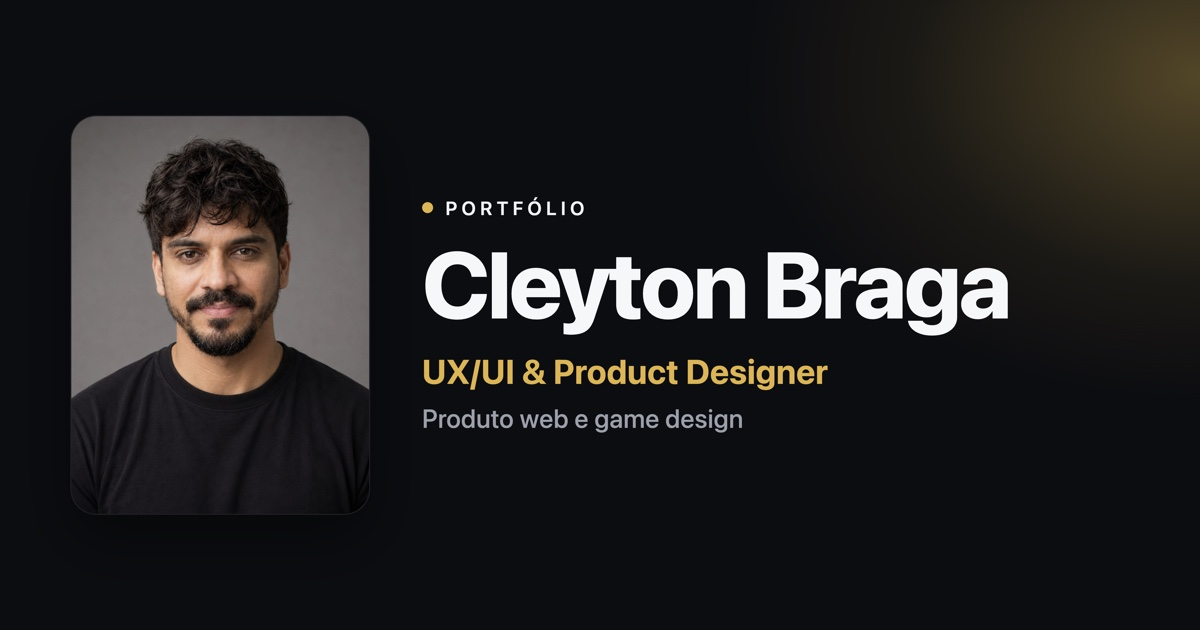
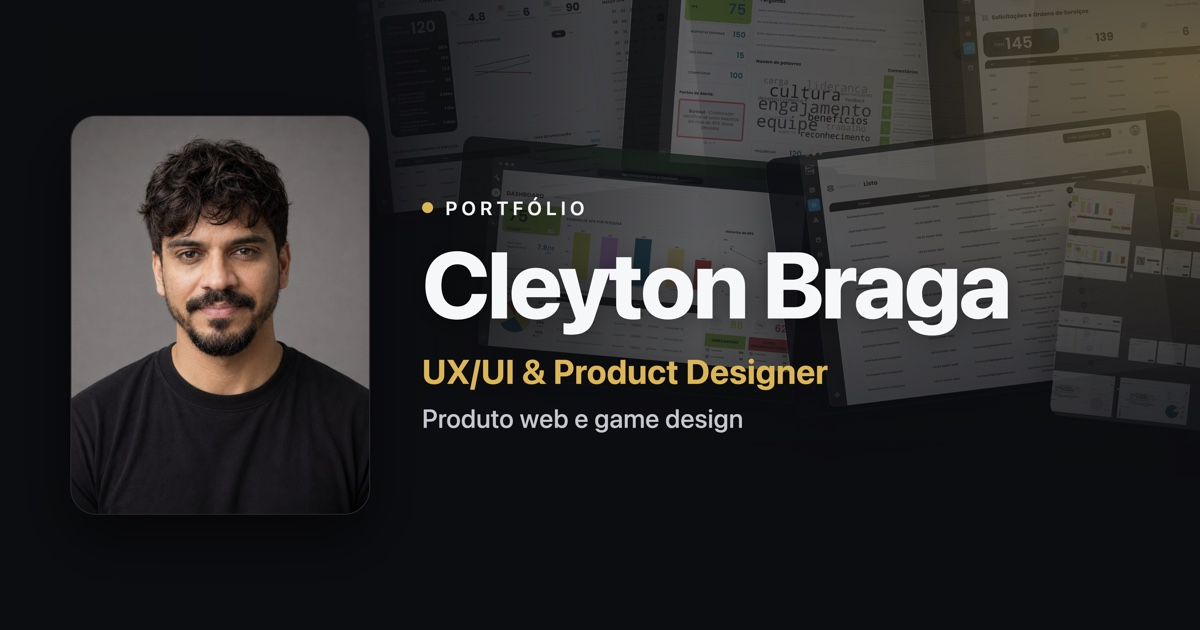
Card com collage de fundo + padroniza titulo e descricao (sem gamificacao)

diff --git a/sobre/index.html b/sobre/index.html
@@ -3,22 +3,22 @@
 <head>
 <meta charset="utf-8">
 <meta name="viewport" content="width=device-width, initial-scale=1">
-<title>Quem sou eu · Cleyton Braga | UX/UI Designer</title>
-<meta name="description" content="Cleyton Braga, Product Designer: produto web, gamificação e game design. Trajetória, como trabalho e ferramentas.">
+<title>Quem sou eu · Cleyton Braga | UX/UI &amp; Product Designer</title>
+<meta name="description" content="Cleyton Braga, Product Designer: produto web e game design. Trajetória, como trabalho e ferramentas.">
 <!-- Open Graph / preview de compartilhamento -->
 <meta property="og:type" content="website">
 <meta property="og:site_name" content="Cleyton Braga">
 <meta property="og:locale" content="pt_BR">
-<meta property="og:title" content="Quem sou eu · Cleyton Braga | UX/UI Designer">
-<meta property="og:description" content="Cleyton Braga, Product Designer: produto web, gamificação e game design. Trajetória, como trabalho e ferramentas.">
+<meta property="og:title" content="Quem sou eu · Cleyton Braga | UX/UI &amp; Product Designer">
+<meta property="og:description" content="Cleyton Braga, Product Designer: produto web e game design. Trajetória, como trabalho e ferramentas.">
 <meta property="og:url" content="https://cleytonbraga.com/sobre/">
 <meta property="og:image" content="https://cleytonbraga.com/assets/og-cover.jpg">
 <meta property="og:image:width" content="1200">
 <meta property="og:image:height" content="630">
 <meta property="og:image:alt" content="Cleyton Braga — UX/UI & Product Designer">
 <meta name="twitter:card" content="summary_large_image">
-<meta name="twitter:title" content="Quem sou eu · Cleyton Braga | UX/UI Designer">
-<meta name="twitter:description" content="Cleyton Braga, Product Designer: produto web, gamificação e game design. Trajetória, como trabalho e ferramentas.">
+<meta name="twitter:title" content="Quem sou eu · Cleyton Braga | UX/UI &amp; Product Designer">
+<meta name="twitter:description" content="Cleyton Braga, Product Designer: produto web e game design. Trajetória, como trabalho e ferramentas.">
 <meta name="twitter:image" content="https://cleytonbraga.com/assets/og-cover.jpg">
 
 <link rel="stylesheet" href="../styles.css?v=68">

diff --git a/index.html b/index.html
@@ -3,21 +3,21 @@
 <head>
 <meta charset="utf-8">
 <meta name="viewport" content="width=device-width, initial-scale=1">
-<title>Cleyton Braga | UX/UI Designer</title>
+<title>Cleyton Braga | UX/UI &amp; Product Designer</title>
 <!-- Open Graph / preview de compartilhamento -->
 <meta property="og:type" content="website">
 <meta property="og:site_name" content="Cleyton Braga">
 <meta property="og:locale" content="pt_BR">
-<meta property="og:title" content="Cleyton Braga | UX/UI Designer">
-<meta property="og:description" content="Portfólio de Cleyton Braga — produto web, gamificação e game design.">
+<meta property="og:title" content="Cleyton Braga | UX/UI &amp; Product Designer">
+<meta property="og:description" content="Portfólio de Cleyton Braga — produto web e game design.">
 <meta property="og:url" content="https://cleytonbraga.com/">
 <meta property="og:image" content="https://cleytonbraga.com/assets/og-cover.jpg">
 <meta property="og:image:width" content="1200">
 <meta property="og:image:height" content="630">
 <meta property="og:image:alt" content="Cleyton Braga — UX/UI & Product Designer">
 <meta name="twitter:card" content="summary_large_image">
-<meta name="twitter:title" content="Cleyton Braga | UX/UI Designer">
-<meta name="twitter:description" content="Portfólio de Cleyton Braga — produto web, gamificação e game design.">
+<meta name="twitter:title" content="Cleyton Braga | UX/UI &amp; Product Designer">
+<meta name="twitter:description" content="Portfólio de Cleyton Braga — produto web e game design.">
 <meta name="twitter:image" content="https://cleytonbraga.com/assets/og-cover.jpg">
 
 <link rel="stylesheet" href="styles.css?v=68">

diff --git a/cases/projetos/index.html b/cases/projetos/index.html
@@ -3,13 +3,13 @@
 <head>
 <meta charset="utf-8">
 <meta name="viewport" content="width=device-width, initial-scale=1">
-<title>Todos os projetos · Cleyton Braga | UX/UI Designer</title>
+<title>Todos os projetos · Cleyton Braga | UX/UI &amp; Product Designer</title>
 <meta name="description" content="Uma seleção do que desenhei: produto web, ferramentas internas, apps e jogos.">
 <!-- Open Graph / preview de compartilhamento -->
 <meta property="og:type" content="website">
 <meta property="og:site_name" content="Cleyton Braga">
 <meta property="og:locale" content="pt_BR">
-<meta property="og:title" content="Todos os projetos · Cleyton Braga | UX/UI Designer">
+<meta property="og:title" content="Todos os projetos · Cleyton Braga | UX/UI &amp; Product Designer">
 <meta property="og:description" content="Uma seleção do que desenhei: produto web, ferramentas internas, apps e jogos.">
 <meta property="og:url" content="https://cleytonbraga.com/cases/projetos/">
 <meta property="og:image" content="https://cleytonbraga.com/assets/og-cover.jpg">
@@ -17,7 +17,7 @@
 <meta property="og:image:height" content="630">
 <meta property="og:image:alt" content="Cleyton Braga — UX/UI & Product Designer">
 <meta name="twitter:card" content="summary_large_image">
-<meta name="twitter:title" content="Todos os projetos · Cleyton Braga | UX/UI Designer">
+<meta name="twitter:title" content="Todos os projetos · Cleyton Braga | UX/UI &amp; Product Designer">
 <meta name="twitter:description" content="Uma seleção do que desenhei: produto web, ferramentas internas, apps e jogos.">
 <meta name="twitter:image" content="https://cleytonbraga.com/assets/og-cover.jpg">
 

diff --git a/cases/sao-braz/index.html b/cases/sao-braz/index.html
@@ -9,7 +9,7 @@
 <meta property="og:site_name" content="Cleyton Braga">
 <meta property="og:locale" content="pt_BR">
 <meta property="og:title" content="São Braz no São João · Ativações · Cleyton Braga">
-<meta property="og:description" content="Portfólio de Cleyton Braga — produto web, gamificação e game design.">
+<meta property="og:description" content="Portfólio de Cleyton Braga — produto web e game design.">
 <meta property="og:url" content="https://cleytonbraga.com/cases/sao-braz/">
 <meta property="og:image" content="https://cleytonbraga.com/assets/og-cover.jpg">
 <meta property="og:image:width" content="1200">
@@ -17,7 +17,7 @@
 <meta property="og:image:alt" content="Cleyton Braga — UX/UI & Product Designer">
 <meta name="twitter:card" content="summary_large_image">
 <meta name="twitter:title" content="São Braz no São João · Ativações · Cleyton Braga">
-<meta name="twitter:description" content="Portfólio de Cleyton Braga — produto web, gamificação e game design.">
+<meta name="twitter:description" content="Portfólio de Cleyton Braga — produto web e game design.">
 <meta name="twitter:image" content="https://cleytonbraga.com/assets/og-cover.jpg">
 
 <link rel="stylesheet" href="../../styles.css?v=68">

diff --git a/cases/ecossistema/index.html b/cases/ecossistema/index.html
@@ -9,7 +9,7 @@
 <meta property="og:site_name" content="Cleyton Braga">
 <meta property="og:locale" content="pt_BR">
 <meta property="og:title" content="Ecossistema da Ativação | Cleyton Braga">
-<meta property="og:description" content="Portfólio de Cleyton Braga — produto web, gamificação e game design.">
+<meta property="og:description" content="Portfólio de Cleyton Braga — produto web e game design.">
 <meta property="og:url" content="https://cleytonbraga.com/cases/ecossistema/">
 <meta property="og:image" content="https://cleytonbraga.com/assets/og-cover.jpg">
 <meta property="og:image:width" content="1200">
@@ -17,7 +17,7 @@
 <meta property="og:image:alt" content="Cleyton Braga — UX/UI & Product Designer">
 <meta name="twitter:card" content="summary_large_image">
 <meta name="twitter:title" content="Ecossistema da Ativação | Cleyton Braga">
-<meta name="twitter:description" content="Portfólio de Cleyton Braga — produto web, gamificação e game design.">
+<meta name="twitter:description" content="Portfólio de Cleyton Braga — produto web e game design.">
 <meta name="twitter:image" content="https://cleytonbraga.com/assets/og-cover.jpg">
 
 <link rel="stylesheet" href="../../styles.css?v=68">

diff --git a/cases/bpx/index.html b/cases/bpx/index.html
@@ -9,7 +9,7 @@
 <meta property="og:site_name" content="Cleyton Braga">
 <meta property="og:locale" content="pt_BR">
 <meta property="og:title" content="BPX · Plataforma de apostas | Cleyton Braga">
-<meta property="og:description" content="Portfólio de Cleyton Braga — produto web, gamificação e game design.">
+<meta property="og:description" content="Portfólio de Cleyton Braga — produto web e game design.">
 <meta property="og:url" content="https://cleytonbraga.com/cases/bpx/">
 <meta property="og:image" content="https://cleytonbraga.com/assets/og-cover.jpg">
 <meta property="og:image:width" content="1200">
@@ -17,7 +17,7 @@
 <meta property="og:image:alt" content="Cleyton Braga — UX/UI & Product Designer">
 <meta name="twitter:card" content="summary_large_image">
 <meta name="twitter:title" content="BPX · Plataforma de apostas | Cleyton Braga">
-<meta name="twitter:description" content="Portfólio de Cleyton Braga — produto web, gamificação e game design.">
+<meta name="twitter:description" content="Portfólio de Cleyton Braga — produto web e game design.">
 <meta name="twitter:image" content="https://cleytonbraga.com/assets/og-cover.jpg">
 
 <link rel="stylesheet" href="../../styles.css?v=68">

diff --git a/cases/dilis/index.html b/cases/dilis/index.html
@@ -9,7 +9,7 @@
 <meta property="og:site_name" content="Cleyton Braga">
 <meta property="og:locale" content="pt_BR">
 <meta property="og:title" content="Dilis · Direção visual · Cleyton Braga">
-<meta property="og:description" content="Portfólio de Cleyton Braga — produto web, gamificação e game design.">
+<meta property="og:description" content="Portfólio de Cleyton Braga — produto web e game design.">
 <meta property="og:url" content="https://cleytonbraga.com/cases/dilis/">
 <meta property="og:image" content="https://cleytonbraga.com/assets/og-cover.jpg">
 <meta property="og:image:width" content="1200">
@@ -17,7 +17,7 @@
 <meta property="og:image:alt" content="Cleyton Braga — UX/UI & Product Designer">
 <meta name="twitter:card" content="summary_large_image">
 <meta name="twitter:title" content="Dilis · Direção visual · Cleyton Braga">
-<meta name="twitter:description" content="Portfólio de Cleyton Braga — produto web, gamificação e game design.">
+<meta name="twitter:description" content="Portfólio de Cleyton Braga — produto web e game design.">
 <meta name="twitter:image" content="https://cleytonbraga.com/assets/og-cover.jpg">
 
 <link rel="stylesheet" href="../../styles.css?v=68">

diff --git a/cases/outros-projetos/index.html b/cases/outros-projetos/index.html
@@ -9,7 +9,7 @@
 <meta property="og:site_name" content="Cleyton Braga">
 <meta property="og:locale" content="pt_BR">
 <meta property="og:title" content="Outros projetos | Cleyton Braga">
-<meta property="og:description" content="Portfólio de Cleyton Braga — produto web, gamificação e game design.">
+<meta property="og:description" content="Portfólio de Cleyton Braga — produto web e game design.">
 <meta property="og:url" content="https://cleytonbraga.com/cases/outros-projetos/">
 <meta property="og:image" content="https://cleytonbraga.com/assets/og-cover.jpg">
 <meta property="og:image:width" content="1200">
@@ -17,7 +17,7 @@
 <meta property="og:image:alt" content="Cleyton Braga — UX/UI & Product Designer">
 <meta name="twitter:card" content="summary_large_image">
 <meta name="twitter:title" content="Outros projetos | Cleyton Braga">
-<meta name="twitter:description" content="Portfólio de Cleyton Braga — produto web, gamificação e game design.">
+<meta name="twitter:description" content="Portfólio de Cleyton Braga — produto web e game design.">
 <meta name="twitter:image" content="https://cleytonbraga.com/assets/og-cover.jpg">
 
 <link rel="stylesheet" href="../../styles.css?v=68">

diff --git a/cases/cases-de-sucesso/index.html b/cases/cases-de-sucesso/index.html
@@ -10,7 +10,7 @@
 <meta property="og:site_name" content="Cleyton Braga">
 <meta property="og:locale" content="pt_BR">
 <meta property="og:title" content="Cases de sucesso | Cleyton Braga">
-<meta property="og:description" content="Portfólio de Cleyton Braga — produto web, gamificação e game design.">
+<meta property="og:description" content="Portfólio de Cleyton Braga — produto web e game design.">
 <meta property="og:url" content="https://cleytonbraga.com/cases/cases-de-sucesso/">
 <meta property="og:image" content="https://cleytonbraga.com/assets/og-cover.jpg">
 <meta property="og:image:width" content="1200">
@@ -18,7 +18,7 @@
 <meta property="og:image:alt" content="Cleyton Braga — UX/UI & Product Designer">
 <meta name="twitter:card" content="summary_large_image">
 <meta name="twitter:title" content="Cases de sucesso | Cleyton Braga">
-<meta name="twitter:description" content="Portfólio de Cleyton Braga — produto web, gamificação e game design.">
+<meta name="twitter:description" content="Portfólio de Cleyton Braga — produto web e game design.">
 <meta name="twitter:image" content="https://cleytonbraga.com/assets/og-cover.jpg">
 
 <link rel="canonical" href="../../index.html">

diff --git a/cases/_template/index.html b/cases/_template/index.html
@@ -10,7 +10,7 @@
 <meta property="og:site_name" content="Cleyton Braga">
 <meta property="og:locale" content="pt_BR">
 <meta property="og:title" content="NOME DO CASE | Cleyton Braga">
-<meta property="og:description" content="Portfólio de Cleyton Braga — produto web, gamificação e game design.">
+<meta property="og:description" content="Portfólio de Cleyton Braga — produto web e game design.">
 <meta property="og:url" content="https://cleytonbraga.com/cases/_template/">
 <meta property="og:image" content="https://cleytonbraga.com/assets/og-cover.jpg">
 <meta property="og:image:width" content="1200">
@@ -18,7 +18,7 @@
 <meta property="og:image:alt" content="Cleyton Braga — UX/UI & Product Designer">
 <meta name="twitter:card" content="summary_large_image">
 <meta name="twitter:title" content="NOME DO CASE | Cleyton Braga">
-<meta name="twitter:description" content="Portfólio de Cleyton Braga — produto web, gamificação e game design.">
+<meta name="twitter:description" content="Portfólio de Cleyton Braga — produto web e game design.">
 <meta name="twitter:image" content="https://cleytonbraga.com/assets/og-cover.jpg">
 
 <link rel="stylesheet" href="../../styles.css?v=68">

diff --git a/cases/sao-braz/demo/index.html b/cases/sao-braz/demo/index.html
@@ -9,7 +9,7 @@
 <meta property="og:site_name" content="Cleyton Braga">
 <meta property="og:locale" content="pt_BR">
 <meta property="og:title" content="São Braz — Desafio da Memória">
-<meta property="og:description" content="Portfólio de Cleyton Braga — produto web, gamificação e game design.">
+<meta property="og:description" content="Portfólio de Cleyton Braga — produto web e game design.">
 <meta property="og:url" content="https://cleytonbraga.com/cases/sao-braz/demo/">
 <meta property="og:image" content="https://cleytonbraga.com/assets/og-cover.jpg">
 <meta property="og:image:width" content="1200">
@@ -17,7 +17,7 @@
 <meta property="og:image:alt" content="Cleyton Braga — UX/UI & Product Designer">
 <meta name="twitter:card" content="summary_large_image">
 <meta name="twitter:title" content="São Braz — Desafio da Memória">
-<meta name="twitter:description" content="Portfólio de Cleyton Braga — produto web, gamificação e game design.">
+<meta name="twitter:description" content="Portfólio de Cleyton Braga — produto web e game design.">
 <meta name="twitter:image" content="https://cleytonbraga.com/assets/og-cover.jpg">
 
 <style>

diff --git a/sobre/index-cracha.html b/sobre/index-cracha.html
@@ -3,8 +3,8 @@
 <head>
 <meta charset="utf-8">
 <meta name="viewport" content="width=device-width, initial-scale=1">
-<title>Quem sou eu · Cleyton Braga | UX/UI Designer</title>
-<meta name="description" content="Cleyton Braga, Product Designer: produto web, gamificação e game design. Trajetória, como trabalho e ferramentas.">
+<title>Quem sou eu · Cleyton Braga | UX/UI &amp; Product Designer</title>
+<meta name="description" content="Cleyton Braga, Product Designer: produto web e game design. Trajetória, como trabalho e ferramentas.">
 <link rel="stylesheet" href="../styles.css?v=68">
 <style>:root{ --accent:#e3b341; }</style>
 <style>
